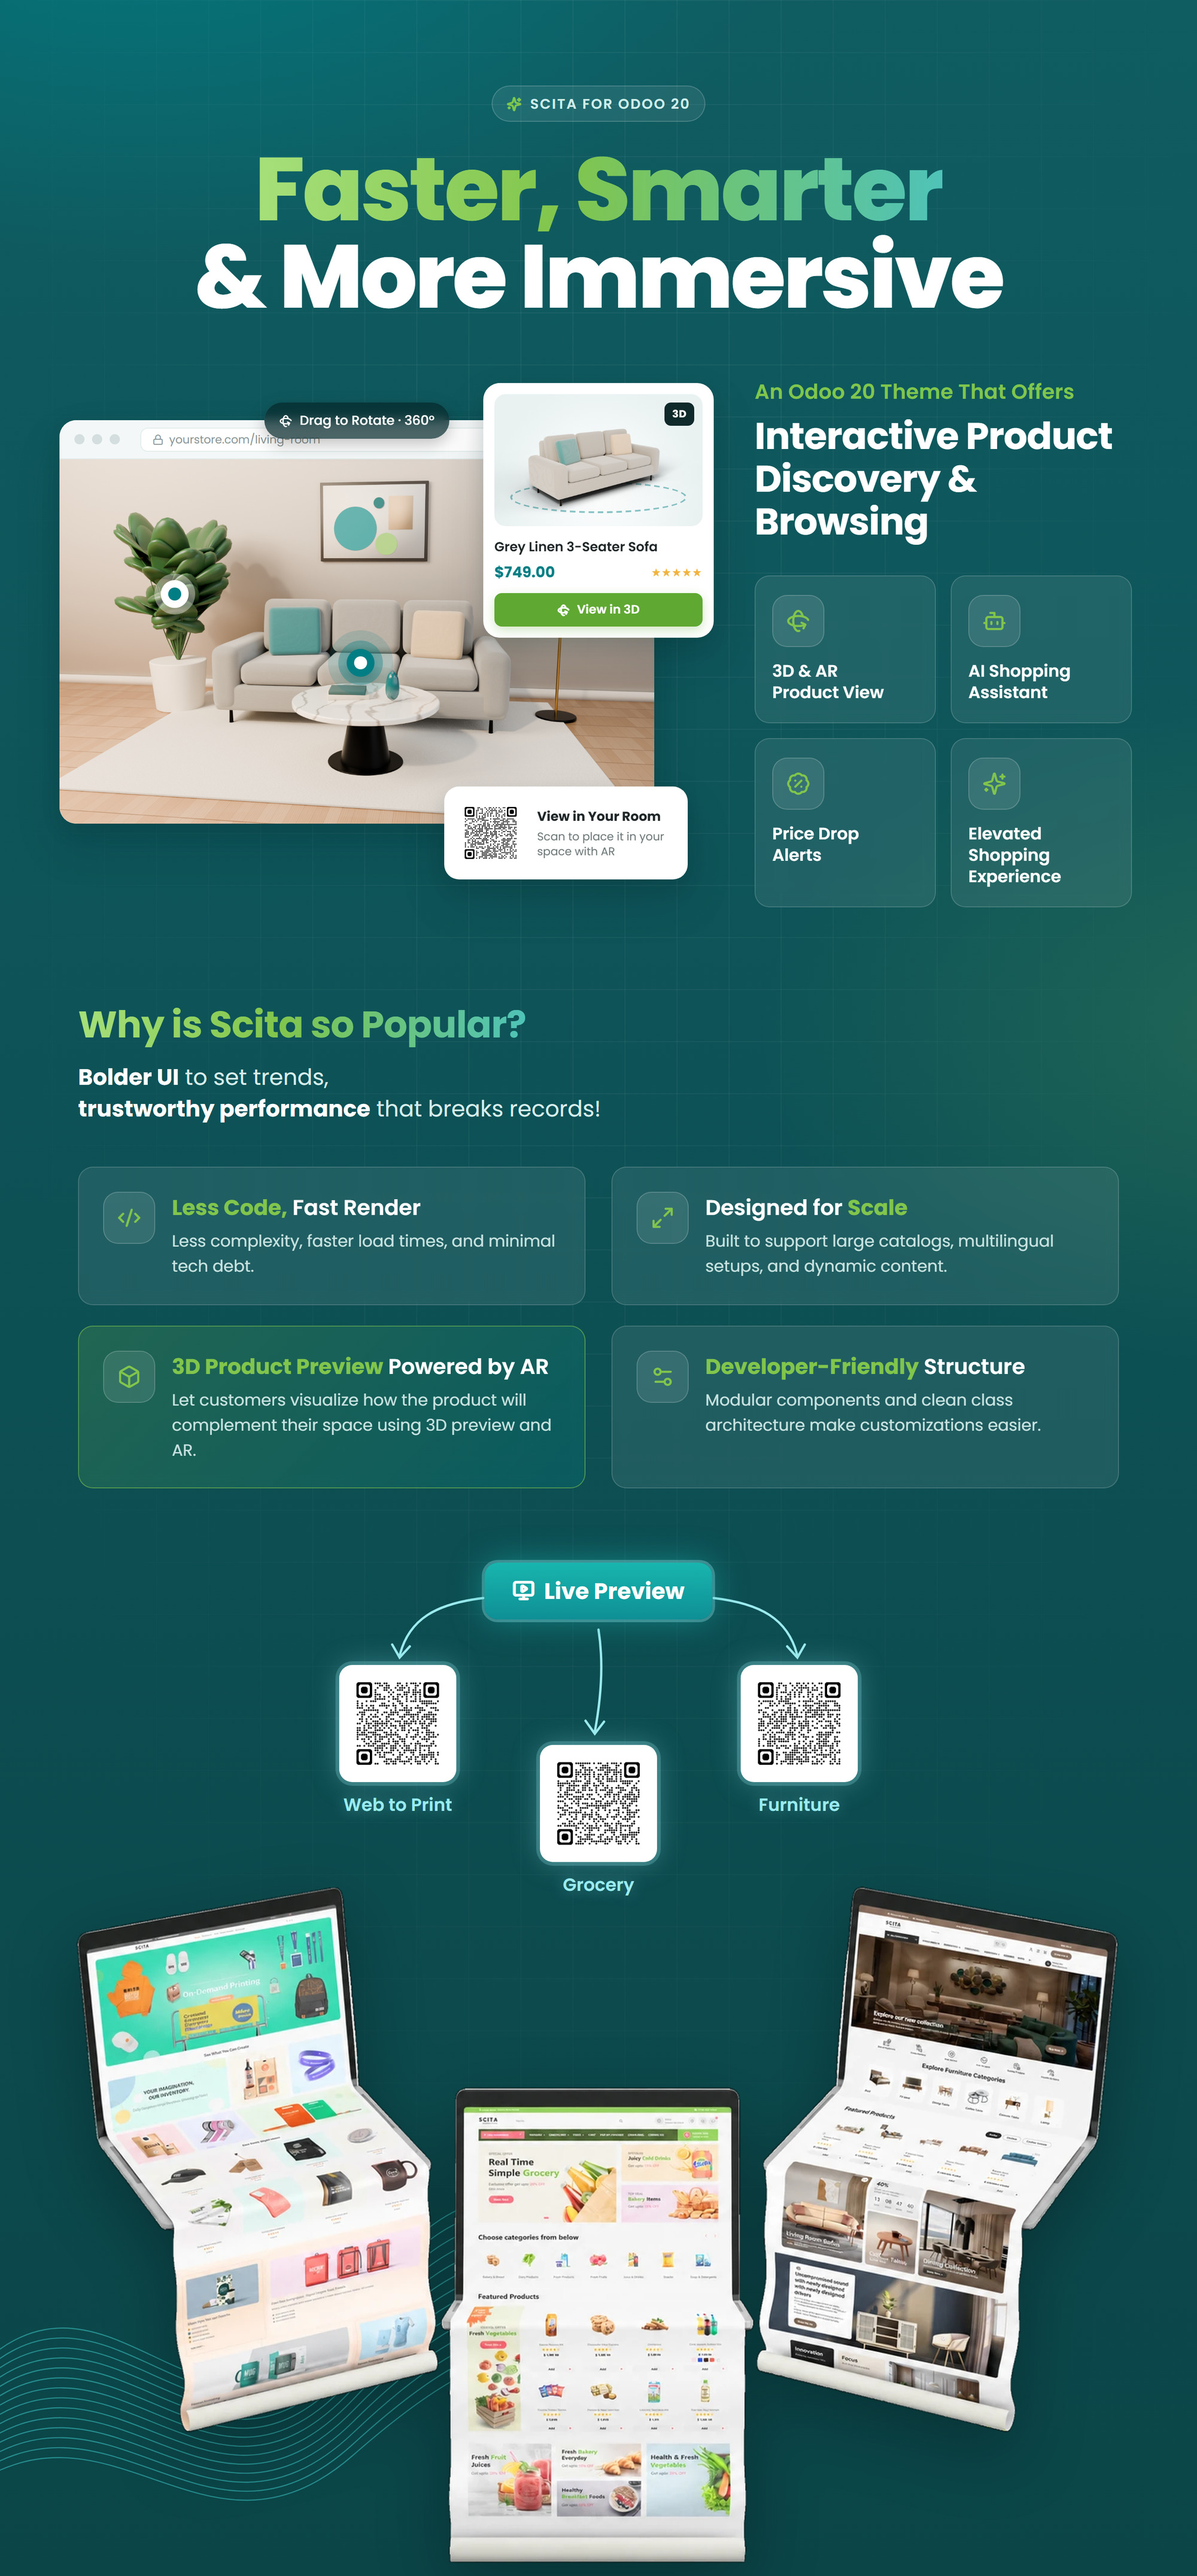
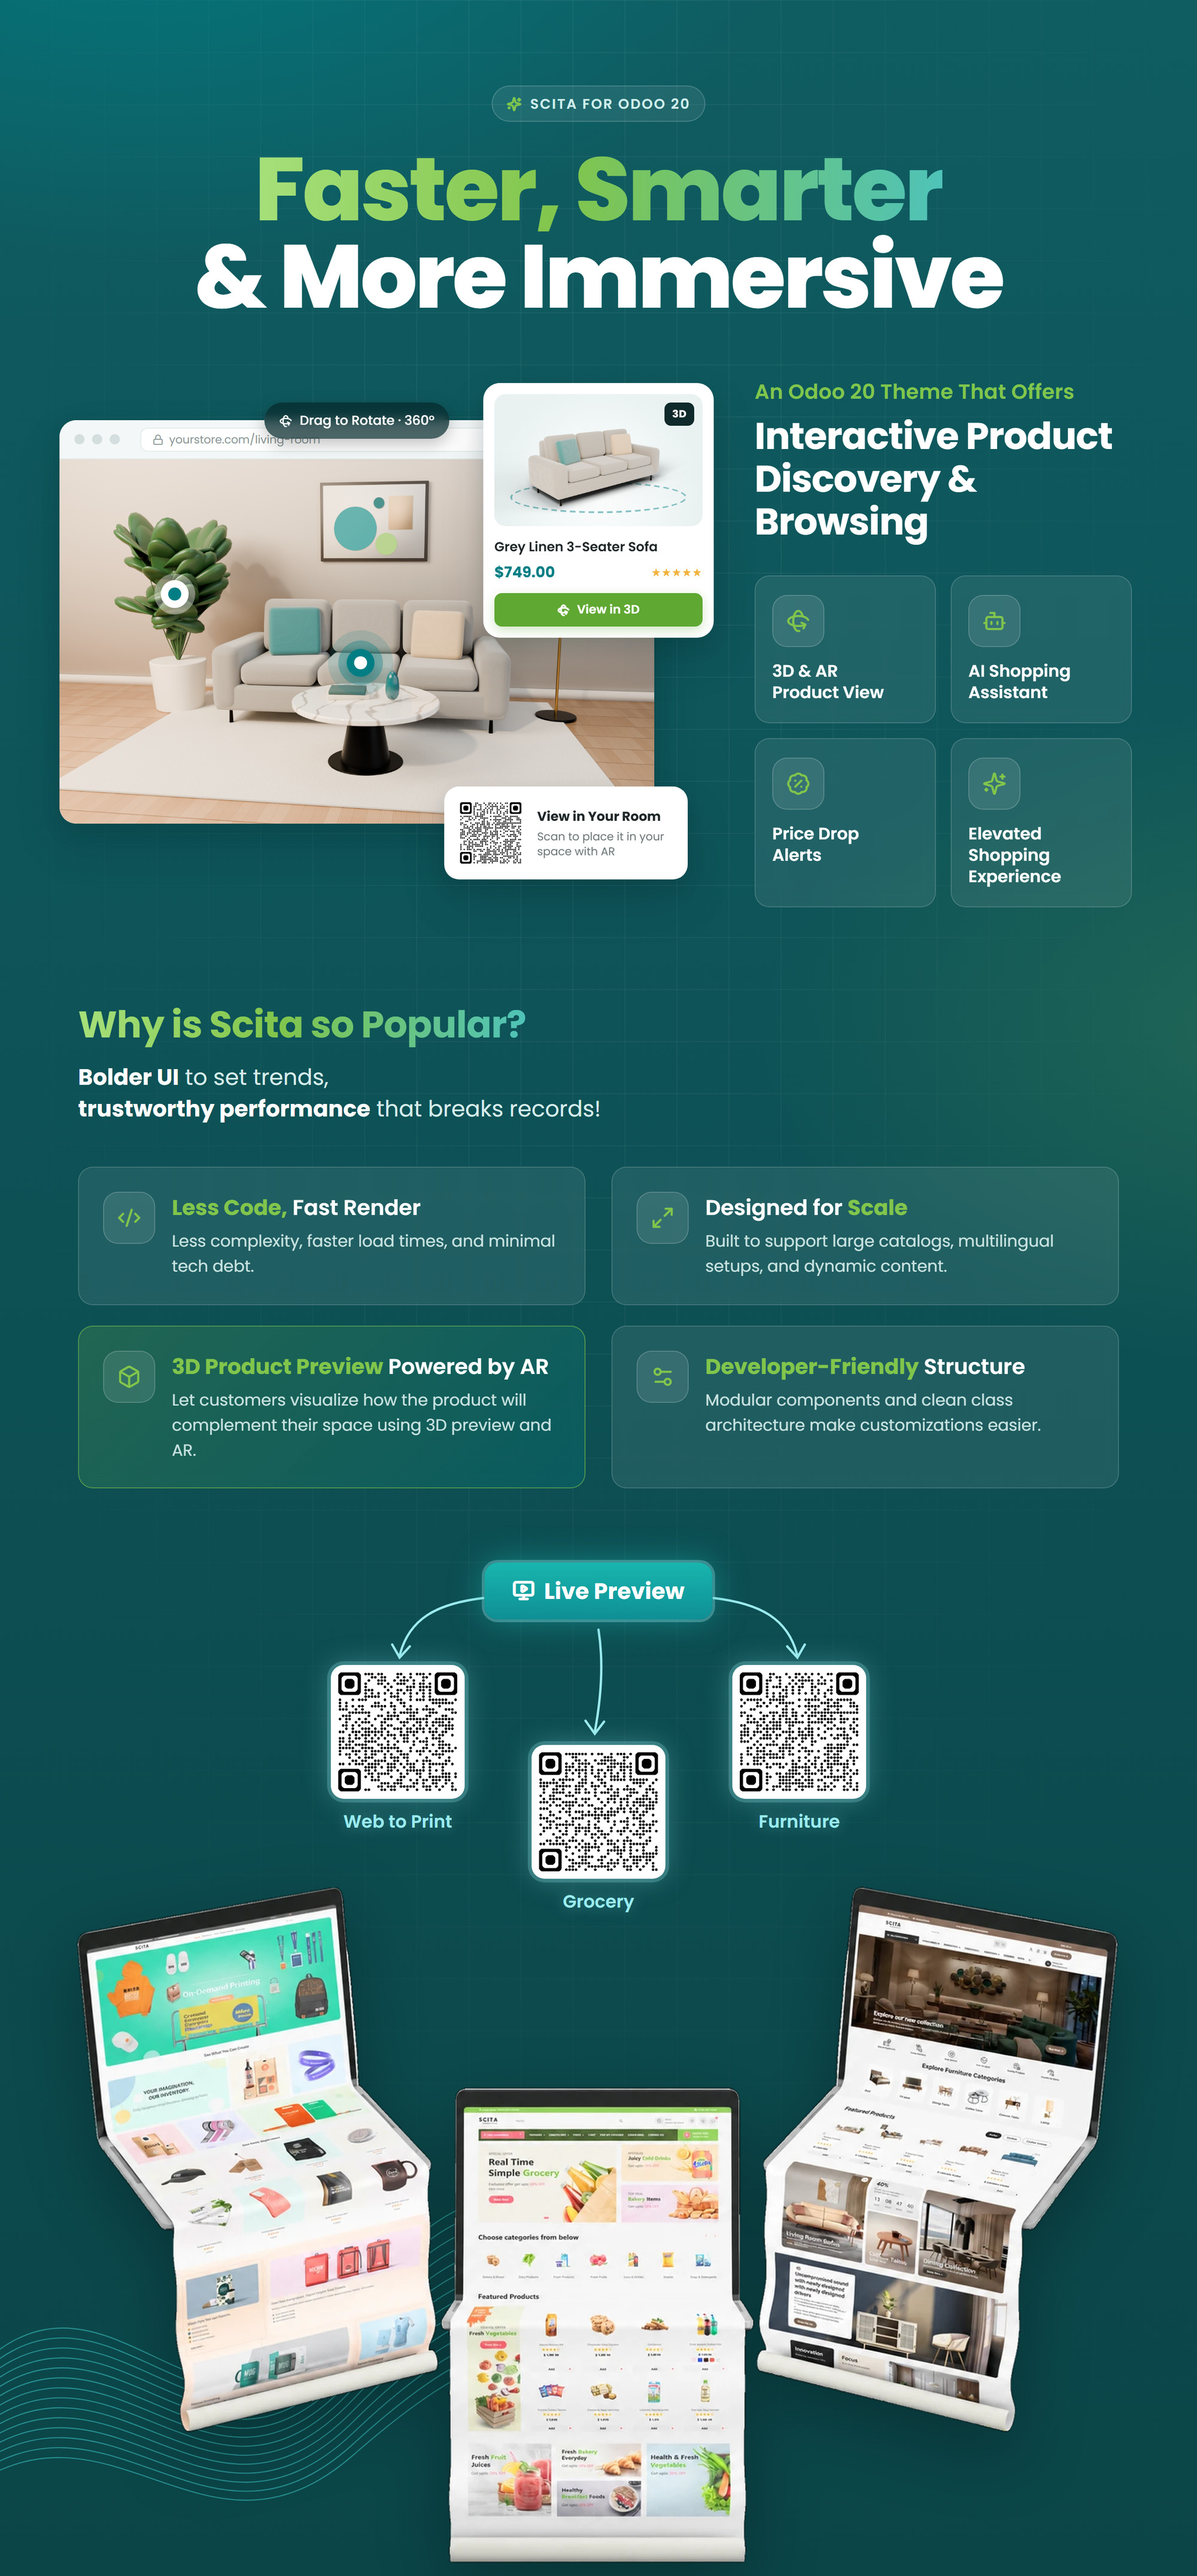
Enlarge hero QR codes and trim their white margins

diff --git a/folds/01-hero.html b/folds/01-hero.html
@@ -56,10 +56,10 @@
     background: linear-gradient(180deg, #19B5AE, #0E8F95); box-shadow: 0 0 0 3px rgba(143,227,232,.35), 0 0 34px rgba(25,181,174,.55); }
   .live svg.arrows { position: absolute; inset: 0; z-index: 4; overflow: visible; }
   .qrw { position: absolute; z-index: 5; display: flex; flex-direction: column; align-items: center; gap: 10px; width: 160px; margin-left: -80px; }
-  .qrw .q { background: #fff; padding: 9px; border-radius: 14px; box-shadow: 0 0 0 4px rgba(143,227,232,.25), 0 0 30px rgba(143,227,232,.35); }
-  .qrw .q img { width: 108px; height: 108px; display: block; }
+  .qrw .q { background: #fff; padding: 6px; border-radius: 14px; box-shadow: 0 0 0 4px rgba(143,227,232,.25), 0 0 30px rgba(143,227,232,.35); }
+  .qrw .q img { width: 132px; height: 132px; display: block; }
   .qrw span { font-size: 19px; font-weight: 600; color: #9BEAEE; text-shadow: 0 0 16px rgba(143,227,232,.45); }
-  .qrw.sm .q img { width: 84px; height: 84px; } .qrw.sm span { font-size: 16px; }
+  .qrw.sm .q img { width: 100px; height: 100px; } .qrw.sm span { font-size: 16px; }
   .lap { position: absolute; }
   .lap img { width: 100%; display: block; filter: drop-shadow(0 24px 36px rgba(0,0,0,.28)); }
   svg.swirl { position: absolute; left: -40px; bottom: -10px; width: 760px; height: 520px; z-index: 0; opacity: .55; }
